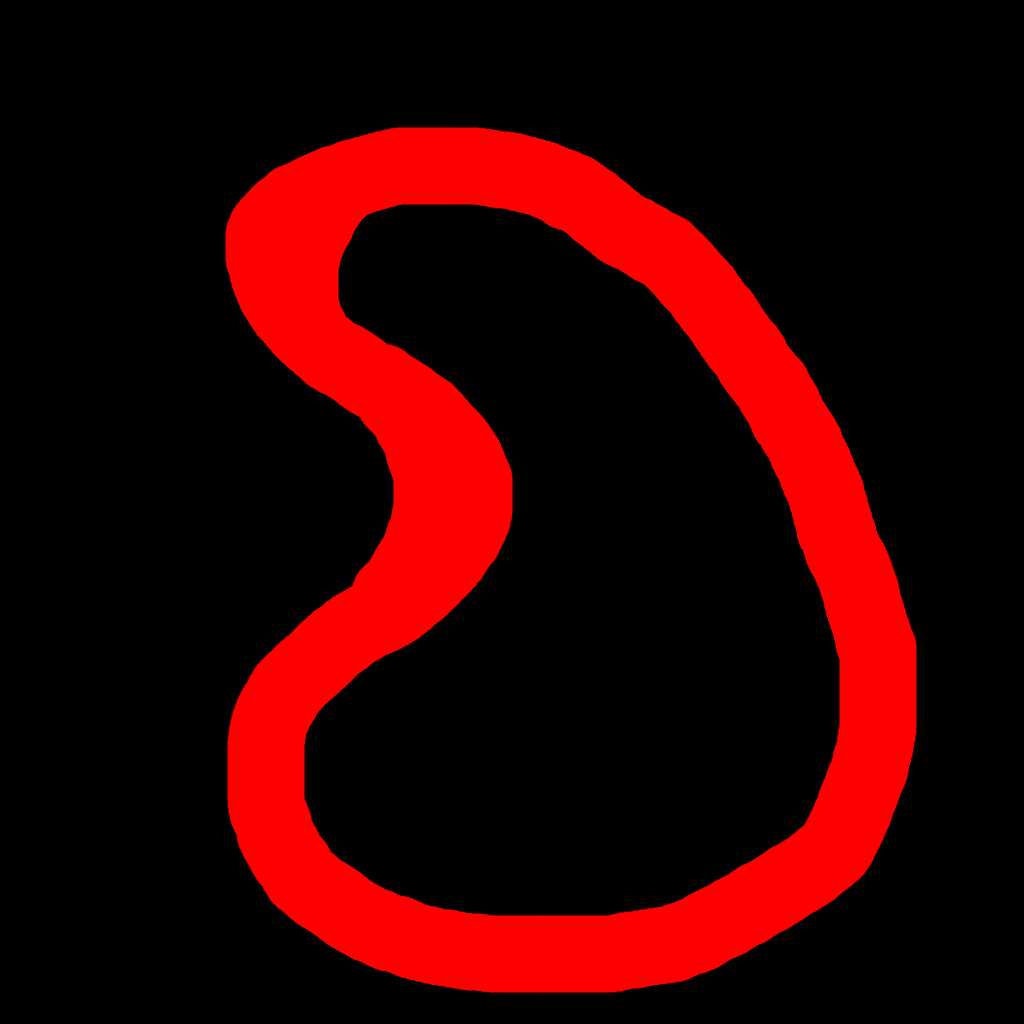
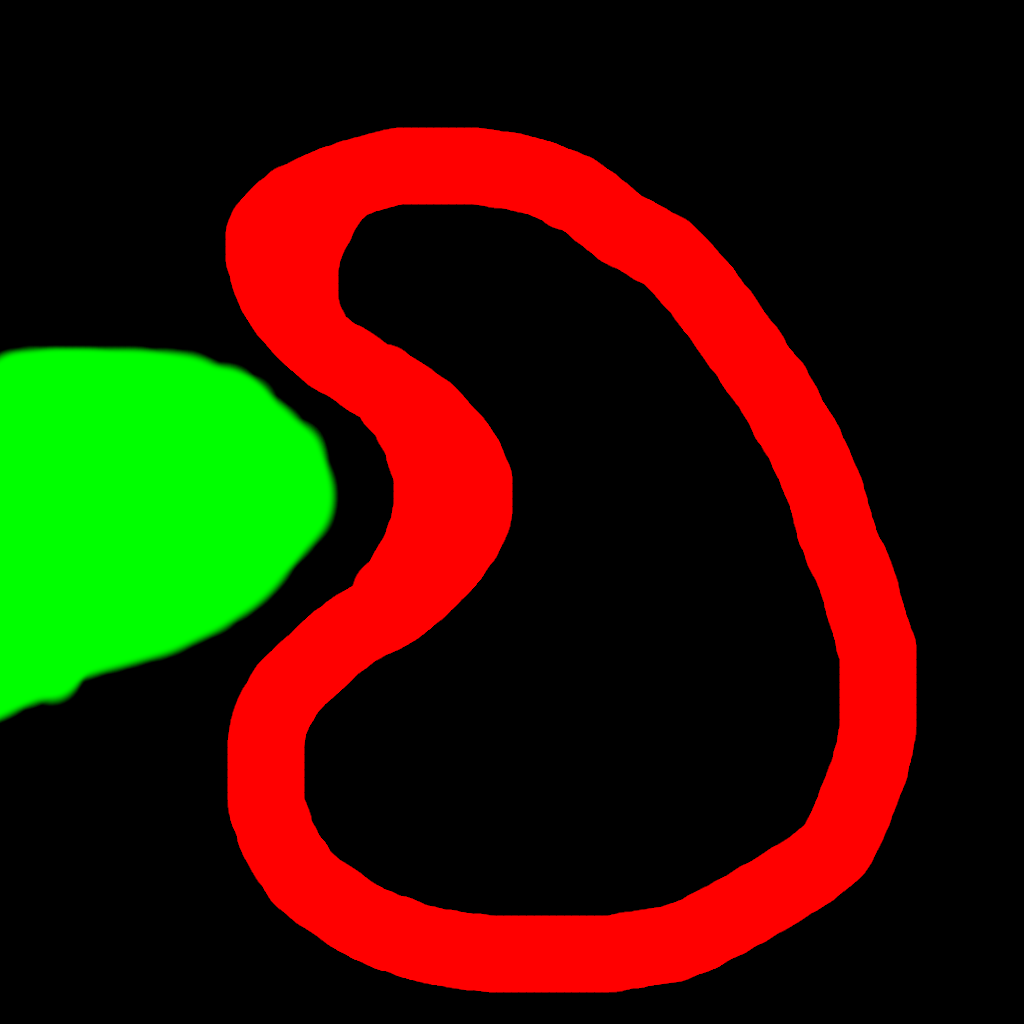
Sand

Changed region(s): [[0.0, 0.3125, 0.3438, 0.7188]]

diff --git a/src/examples/project_main.ts b/src/examples/project_main.ts
@@ -47,25 +47,28 @@ export function setupWebGL(canvas: HTMLCanvasElement) {
 export async function setupWhatToDraw() {
 	const blendMapTexture = new Texture(gl, '/assets/project/terrainBlendMap.png')
 	const grassTexture = new Texture(gl, '/assets/grass.jpg')
-	const asphaltTexture = new Texture(gl, '/assets/asphalt.jpg')
 	const grassNormal = new Texture(gl, '/assets/grass_normal.jpg')
-	const asphaltNormal = new Texture(gl, '/assets/asphalt_normal.jpg')
 	const grassRoughness = new Texture(gl, '/assets/grass_roughness.jpg')
+	const asphaltTexture = new Texture(gl, '/assets/asphalt.jpg')
+	const asphaltNormal = new Texture(gl, '/assets/asphalt_normal.jpg')
 	const asphaltRoughness = new Texture(gl, '/assets/asphalt_roughness.jpg')
+	const sandTexture = new Texture(gl, '/assets/sand.jpg')
+	const sandNormal = new Texture(gl, '/assets/sand_normal.jpg')
+	const sandRoughness = new Texture(gl, '/assets/sand_roughness.jpg')
 	terrainShader = new TerrainShader(
 		gl,
 		blendMapTexture,
 		grassTexture,
 		asphaltTexture,
-		blendMapTexture,
+		sandTexture,
 		blendMapTexture,
 		grassNormal,
 		asphaltNormal,
-		blendMapTexture,
+		sandNormal,
 		blendMapTexture,
 		grassRoughness,
 		asphaltRoughness,
-		blendMapTexture,
+		sandRoughness,
 		blendMapTexture
 	)
 
